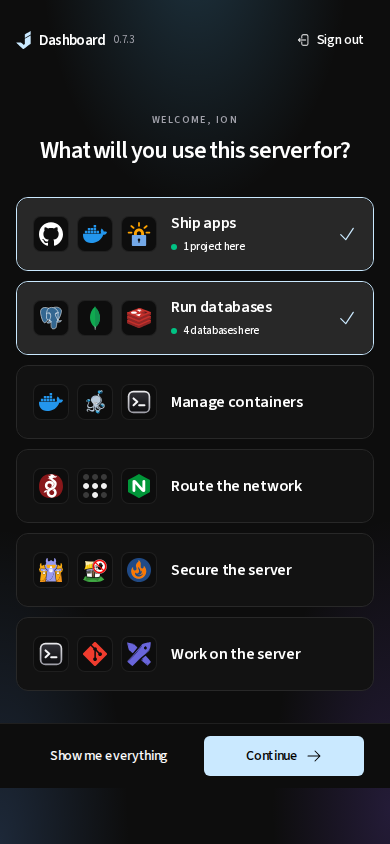
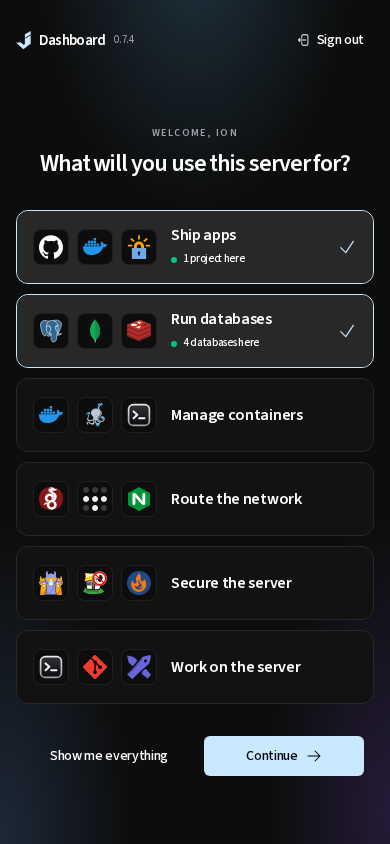
Leave the first-run question's commands under the cards on a phone, without a bar

diff --git a/frontend/tests/browser/onboarding.spec.ts b/frontend/tests/browser/onboarding.spec.ts
@@ -131,10 +131,14 @@ test("on a phone the command stays in reach, and the answer fits the screen", as
   for (const name of ["Manage containers", "Route the network", "Secure the server"]) {
     await purposes.getByRole("button", { name }).click()
   }
-  // Six cards and the header are taller than the phone; Continue is held at
-  // the foot of the window over them.
-  await expect(page.getByRole("button", { name: "Continue" })).toBeInViewport()
-  await page.getByRole("button", { name: "Continue" }).click()
+  // Six cards as rows leave Continue under them on the screen, without a bar
+  // holding it there.
+  const command = page.getByRole("button", { name: "Continue" })
+  await expect(command).toBeInViewport()
+  expect(await command.evaluate((el) => getComputedStyle(el.parentElement!).position)).toBe(
+    "static",
+  )
+  await command.click()
   await expect(
     page.getByRole("list", { name: "What this server is for" }).getByRole("listitem"),
   ).toHaveCount(5)

diff --git a/frontend/src/components/onboarding/welcome-flow.tsx b/frontend/src/components/onboarding/welcome-flow.tsx
@@ -121,9 +121,11 @@ export function WelcomeFlow() {
         ) : (
           <>
             <Purposes chosen={purposes} readings={found.readings} onPick={setPicked} />
-            {/* On a phone six cards are taller than the screen, so the
-                command is held at the foot of the window over them. */}
-            <div className="flex items-center justify-center gap-3 max-md:sticky max-md:bottom-0 max-md:z-20 max-md:-mx-4 max-md:border-t max-md:border-hairline max-md:bg-background max-md:px-4 max-md:py-3">
+            {/* Under the cards on every screen. A phone held them in a dark
+                bar stuck to the foot of the window, which the wide screen
+                does not have and which read as a second surface; six cards as
+                rows fit a phone with the command under them anyway. */}
+            <div className="flex items-center justify-center gap-3">
               <Button
                 variant="ghost"
                 size="lg"

diff --git a/docs/internal/frontend/shell-design.md b/docs/internal/frontend/shell-design.md
@@ -125,8 +125,9 @@ screens, centred on arrival's ground (`.auth-backdrop`, design system §16), the
 Until 0.7.4 it was three steps: the purposes beside a small picture of the server, then the sections
 as fifteen tiles beside a preview of the rail, then the outcome. Choosing sections one by one is
 Account → Workspace's job — the same tiles and preview, after the fact — and the first sign-in no
-longer asks for it. On a phone the question's cards are rows and its command is held at the foot of
-the window.
+longer asks for it. On a phone the question's cards are rows with the commands under them, as on a
+wide screen: a bar holding them at the foot of the window drew a dark strip the wide screen does not
+have.
 
 Nothing is saved until *Continue* or *Show me everything*. `/account/workspace` is where sections are
 chosen one by one, in the reading register: `SectionTiles` (`section-tiles.tsx`), one compact
